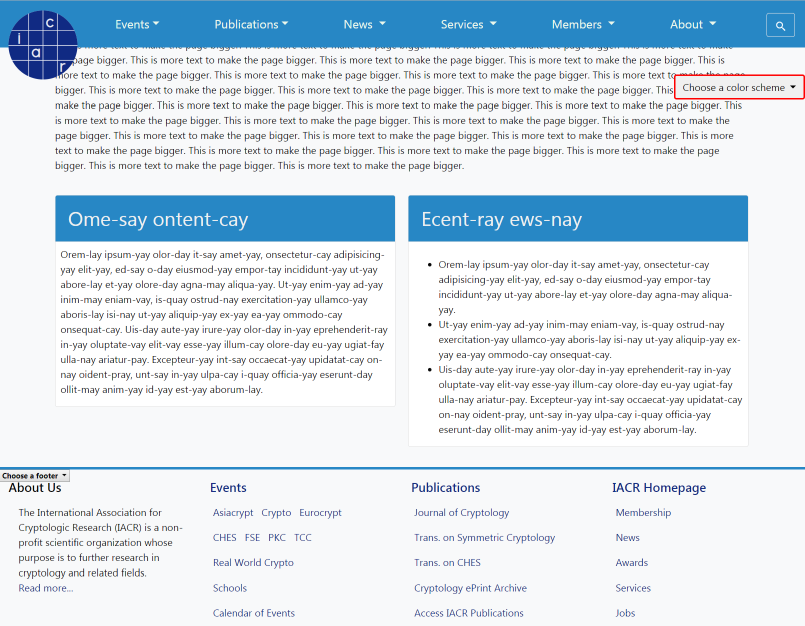
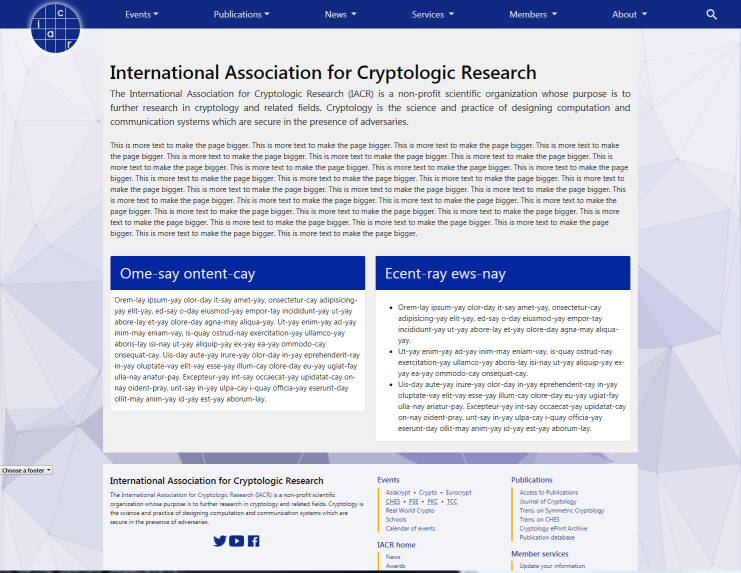
New screenshots.

diff --git a/index.html b/index.html
@@ -21,15 +21,14 @@
       <div class="col-12">
         <h1 class="col-12 p-4 text-center">Versions of IACR website refresh</h1>
         <h2 class="text-center">
-          Round two demos (two of them)
+          Round two demos.
         </h2>
         <p class="strong">
-          After the first round of candidates, we narrowed it down to two choices (which we refer to as v1 and v2).
-        </p>
-        <p>
-          <strong>NOTE: There is also a <a href="search">search demo</a>, but search is
-            now integrated anyway.
-            There is also a <a href="svg.html">list of all available images here</a></strong>
+          There are now two menu structures to choose from. Each menu
+          structure has several possible color schemes and several
+          possible footers. The two menu structures are referred to as
+          v2 and v3.  They no longer show the home page, but rather
+          the appearance of a "generic" page.
         </p>
       </div>
     </div>
@@ -38,12 +37,26 @@
         <div class="card-header">
           <h2>Version v2</h2>
         </div>
-        <a href="v2/"><img class="card-img-top" src="screenshots/v2.png"></a>
         <div class="card-body">
           <ul>
-            <li>A selector for the header and footer and theme.</li>
-            <li>Two versions of the search bar</li>
+            <li>
+            A large header with the IACR name always on the
+            page.
+            </li>
+            <li> Various color schemes to select from (screenshot
+              from one).</li>
           </ul>
+          
+          <a href="v2/"><img class="card-img-top" src="screenshots/v2.png"></a>
+          <p>
+            The mobile version menu structure has search at the bottom of the menu, but
+            auto-scrolls to the top when it receives focus. This still needs work on iPhones,
+            because they do not support focus/blur events in a standard way.
+          </p>
+          <p>
+            <a href="v2/"><img class="img-fluid" src="screenshots/v2_mobile.png"></a>
+            <a href="v2/"><img class="img-fluid" src="screenshots/v2_mobile_open.png"></a>
+          </p>
         </div>
       </div>
       <div class="card col-6">
@@ -52,23 +65,33 @@
         </div>
         <div class="card-body">
           <ul>
-            <li>A sticky top nav that remains on screen but is very compact. The
-              screenshots below show what happens when you scroll - content scrolls up but
-              the nav remains.</li>
+            <li>A sticky top nav that remains on screen but is very compact. As the user scrolls
+              down the page, the top nav remains visible.</li>
             <li>The name "International Association for Cryptologic
               Research" would only appear on the header of the main
-              page. This turns out to ease many space problems, and we still
-              have the logo to brand the site. I don't like it, but I've compensated
-              by using the logo with the text around the outside.
+              page. 
             </li>
-            <li>Selectors for color themes.</li>
+            <li>
+              Various color schemes to select from (screenshot
+              from one).
+            </li>
           </ul>
         </div>
-        <a href="v3/"><img class="card-img-top" src="screenshots/v3_top.png"></a>
-        <h4>After scrolling</h4>
         <a href="v3/"><img class="card-img-top" src="screenshots/v3.png"></a>
+        <p>
+          The mobile version menu structure has search being opened separately.
+        </p>
+        <p>
+          <a href="v3/"><img class="img-fluid" src="screenshots/v3_mobile.png"></a>
+          <a href="v3/"><img class="img-fluid" src="screenshots/v3_mobile_open.png"></a>
+        </p>
       </div>
       </div>
+        <p>
+          <strong>NOTE: There is also a <a href="search">search demo</a>, but search is
+            now integrated anyway.
+            There is also a <a href="svg.html">list of all available images here</a></strong>
+        </p>
     </div>
     <h1 class="text-center mt-4 bg-danger text-white">OLDER VERSIONS BELOW</h1>
     <div class="row">
